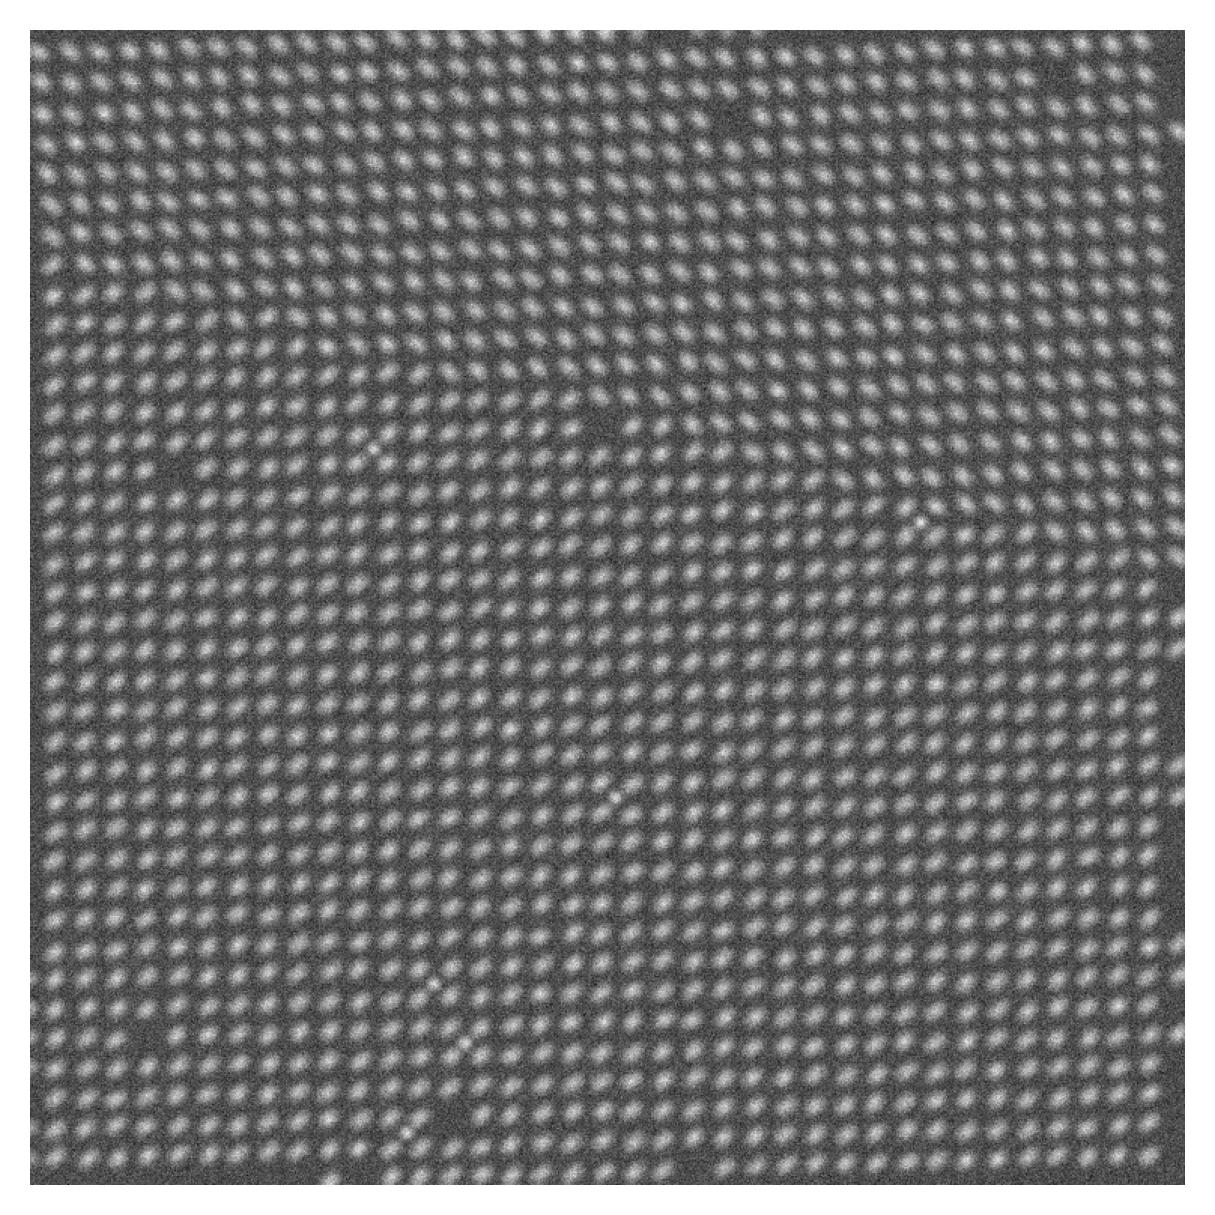
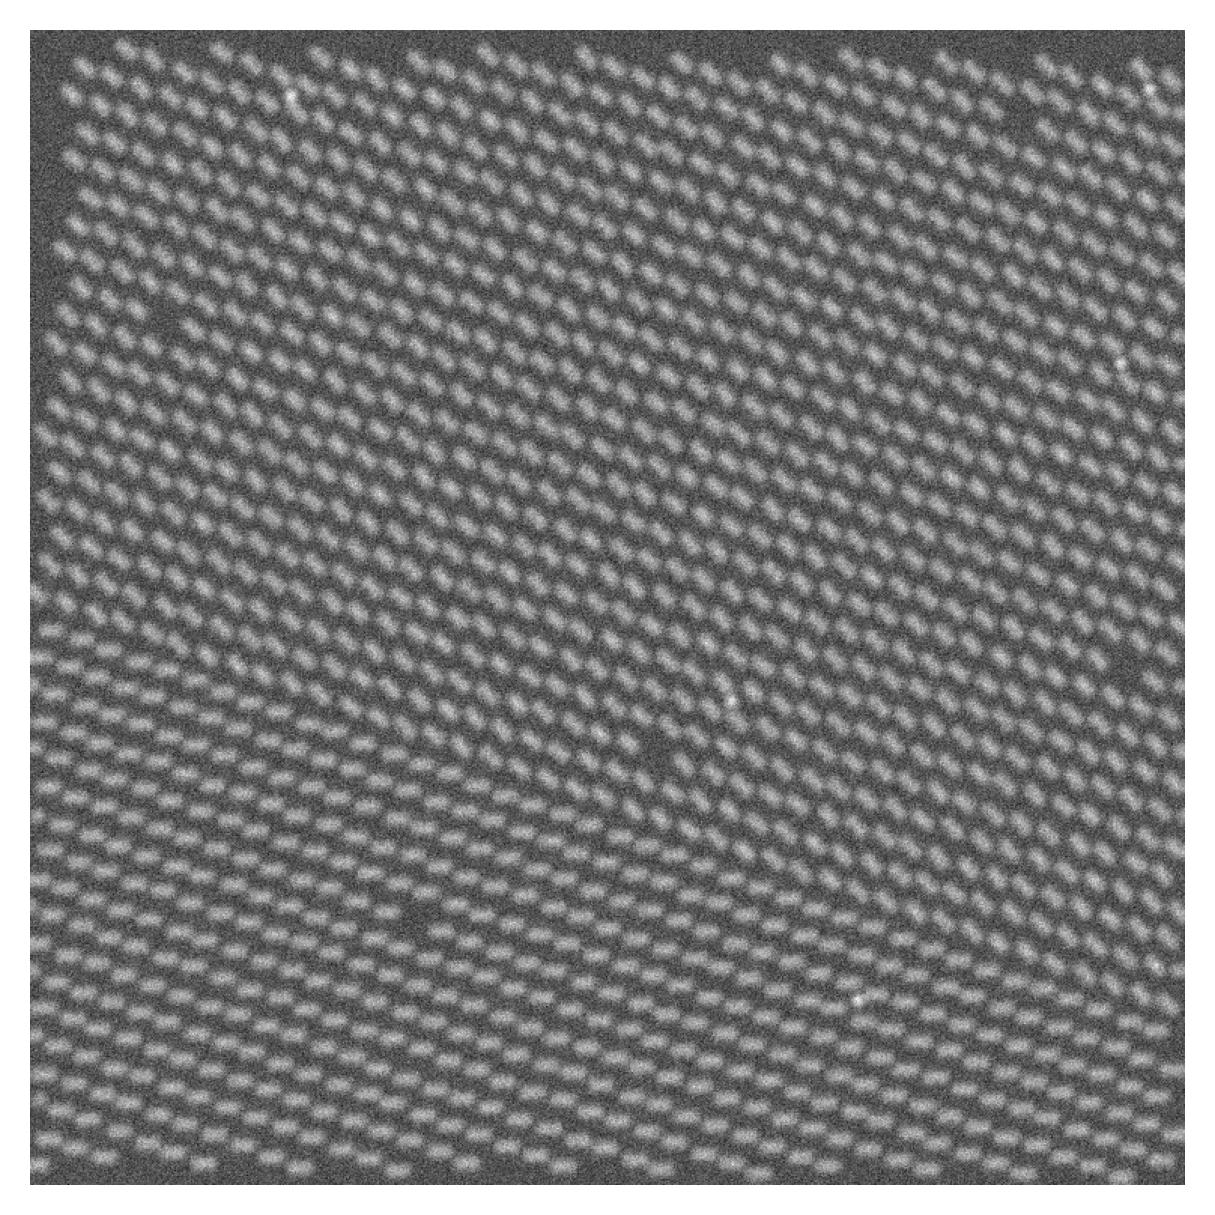
fake STEM images

diff --git a/generate fake STEM images.py b/generate fake STEM images.py
@@ -1,131 +1,131 @@
 import numpy as np
 import matplotlib.pyplot as plt
-from scipy.ndimage import gaussian_filter
-from skimage.draw import disk
+from scipy.ndimage import gaussian_filter  # for Gaussian blurring
+from skimage.draw import disk               # to draw circular atoms/interstitials
 import random
 
+# Function to rotate a point around a given line point by a specified angle
 def rotate_about_line(point, line_point, angle):
-    R = np.array([[np.cos(angle), -np.sin(angle)],
-                  [np.sin(angle),  np.cos(angle)]])
+    R = np.array([[np.cos(angle), -np.sin(angle)], [np.sin(angle),  np.cos(angle)]]) # 2D rotation matrix
     return line_point + R @ (point - line_point)
 
 def generate_stem_image_with_continuous_gb(
         
-    img_size=768,
+    img_size=768,              # Size of the square image (pixels)
     
-    line_spacing=20,
-    atom_spacing=20,
+    line_spacing=20,           # Spacing between lattice lines
+    atom_spacing=20,           # Spacing between atoms along lines
     
-    lattice_angle_deg=-2,
-    gb_misorientation_deg=2,
+    lattice_angle_deg=20,       # Overall rotation of lattice (degrees)
     
-    gb_angle=np.deg2rad(15),
-    gb_height=0.2, # 0.75 (0 to 1)
-    # gb_angle=np.deg2rad(random.uniform(10,20)),
-    # gb_height = random.uniform(0,1),
+    gb_misorientation_deg=5,   # Grain boundary misorientation (degrees) (don't have this too high, like 10 or less)
+    
+    gb_angle=np.deg2rad(20),   # For twinning: equal to lattice_angle_deg # Angle of grain boundary relative to horizontal
+    gb_height=0.001,             # Relative vertical position of GB (0=bottom, 1=top)
                 
-    atom_tilt_deg=-40,
-    dumbbell_separation=3.0, 
-    dumbbell_radius=4.5,
-    atom_intensity=2,
+    atom_tilt_deg=90,           # Tilt of dumbbell atoms (degrees)
+    dumbbell_separation=4.0,   # Distance between the two "lobes" of a dumbbell atom
+    dumbbell_radius=5.0,        # Radius of each dumbbell lobe
+    atom_intensity=2,           # Brightness of atoms
     
-    interstitial_r = 4,
-    interstitial_intensity=1, # relative to atom intensities
+    interstitial_r = 4,         # Radius of interstitial atoms
+    interstitial_intensity=1,   # Brightness relative to normal atoms
     
-    background=0.15,
-    noise_level=0.2,
-    gauss_sigma=2,
+    background=0.15,           # Base background intensity
+    noise_level=0.2,           # Gaussian noise added to final image
+    gauss_sigma=2.0,           # Gaussian blur applied to final image
     
-    n_vacancies=6,
-    n_interstitials=6,
+    n_vacancies=6,             # Number of missing atoms
+    n_interstitials=10,         # Number of extra interstitial atoms
     
-    seed=None
+    seed=None                  # Random seed for reproducibility
 ):
+    
+    # Set random seed if provided
     if seed is not None:
         np.random.seed(seed)
         random.seed(seed)
-
+        
+    # Create empty image with uniform background intensity
     img = np.full((img_size, img_size), background, dtype=float)
 
-    # # Grain boundary
-    # gb_angle = np.deg2rad(-15)
+    # Grain boundary parameters (slope m and intercept b)
     m = np.tan(gb_angle)
     b = img_size * gb_height
 
-    # Reference lattice
-    lattice_angle = np.deg2rad(lattice_angle_deg)
-    line_dir = np.array([np.cos(lattice_angle), np.sin(lattice_angle)])
-    perp_dir = np.array([-line_dir[1], line_dir[0]])
+    # Lattice directions
+    lattice_angle = np.deg2rad(lattice_angle_deg)           # Convert lattice rotation to radians
+    line_dir = np.array([np.cos(lattice_angle), np.sin(lattice_angle)])  # Direction along lines
+    perp_dir = np.array([-line_dir[1], line_dir[0]])       # Perpendicular direction
 
-    center = np.array([img_size // 2, img_size // 2])
-    n_lines = img_size // line_spacing
+    center = np.array([img_size // 2, img_size // 2])      # Image center
+    n_lines = img_size // line_spacing                      # Number of lattice lines to draw
 
-    atoms = []
+    atoms = []  # list to store atom positions and tilts
 
+    # Generate atom positions on lattice
     for i in range(-n_lines, n_lines):
         for j in range(-img_size // atom_spacing,
                        img_size // atom_spacing):
 
+            # Compute ideal atom position on lattice
             pos = center + j * atom_spacing * line_dir + i * line_spacing * perp_dir
             x, y = pos
             
-            # # make x and y positions slightly random
-            array_offset=10
+            # Small random perturbation to make lattice less perfect
+            array_offset=2 # amount to randomize by
             x = x + random.uniform(-array_offset, array_offset)
             y = y + random.uniform(-array_offset, array_offset)
             
+            # Skip atoms outside image bounds
             if not (0 <= x < img_size and 0 <= y < img_size):
                 continue
 
-            # Projection onto GB
+            # Project atom onto grain boundary line
             xg = (x + m * (y - b)) / (1 + m**2)
             yg = m * xg + b
             gb_point = np.array([xg, yg])
             
+            # Determine which side of GB the atom is on
             if y > m * x + b:
-                angle = np.deg2rad(gb_misorientation_deg)
-                tilt = np.deg2rad(atom_tilt_deg)
+                angle = np.deg2rad(gb_misorientation_deg)  # rotation for this grain
+                tilt = np.deg2rad(atom_tilt_deg)           # dumbbell tilt
             else:
-                angle = np.deg2rad(-gb_misorientation_deg)
-                tilt = np.deg2rad(-atom_tilt_deg)
+                angle = np.deg2rad(gb_misorientation_deg)
+                tilt = np.deg2rad(45-atom_tilt_deg) # this makes sure atoms tilt relative to lattice
 
+            # Rotate atom around its projected GB point
             new_pos = rotate_about_line(pos, gb_point, angle)
             
-            # # make x and y positions slightly random
+            # Add small random jitter
             array_offset=1
             new_pos[0] = new_pos[0] + random.uniform(-array_offset, array_offset)
             new_pos[1] = new_pos[1] + random.uniform(-array_offset, array_offset)
             
+            # Store atom position and tilt
             atoms.append((new_pos, tilt))
 
-    # Vacancies
+    # Randomly select indices for vacancies (missing atoms)
     vacancy_indices = random.sample(range(len(atoms)), n_vacancies)
     vacancy_set = set(vacancy_indices)
 
-    # ---- Draw dumbbell atoms ----
+    # Draw dumbbell atoms
     for idx, (pos, tilt) in enumerate(atoms):
         if idx in vacancy_set:
-            continue
+            continue  # skip vacancies
 
         cx, cy = pos
         dx = dumbbell_separation * np.cos(tilt)
         dy = dumbbell_separation * np.sin(tilt)
 
+        # Each dumbbell has two lobes, draw both
         for sx, sy in [(cx + dx, cy + dy), (cx - dx, cy - dy)]:
             x, y = int(sx), int(sy)
-            # print(x,y)
-            
-            # # make x and y positions slightly random
-            # array_offset=1
-            # x = x + random.uniform(-array_offset, array_offset)
-            # y = y + random.uniform(-array_offset, array_offset)
-            # print(x,y)
-            # print()
             if 0 <= x < img_size and 0 <= y < img_size:
                 rr, cc = disk((y, x), dumbbell_radius, shape=img.shape)
-                img[rr, cc] += atom_intensity * 0.5
+                img[rr, cc] += atom_intensity * 0.5  # add brightness to image
 
-    # Interstitials (still round)
+    # Interstitial atoms (extra atoms at midpoints)
     interstitial_sites = []
     for pos, _ in atoms:
         mid = pos + 0.5 * atom_spacing * line_dir + 0.5 * line_spacing * perp_dir
@@ -133,34 +133,40 @@ def generate_stem_image_with_continuous_gb(
         if 0 <= x < img_size and 0 <= y < img_size:
             interstitial_sites.append((x, y))
 
+    # Remove duplicates and randomly select a subset
     interstitial_sites = list(set(interstitial_sites))
     chosen = random.sample(interstitial_sites,
                            min(n_interstitials, len(interstitial_sites)))
 
+    # Draw interstitial atoms
     for x, y in chosen:
         rr, cc = disk((y, x), radius=interstitial_r, shape=img.shape)
         img[rr, cc] += atom_intensity * interstitial_intensity
 
-    # Blur + noise
+    # Apply Gaussian blur to simulate microscope resolution
     img = gaussian_filter(img, sigma=gauss_sigma)
+    # Add Gaussian noise
     img += np.random.normal(0, noise_level, img.shape)
 
-    img -= img.min()
-    img /= img.max()
+    # # Normalize image to [0,1] range
+    # # I don't know if this actually works
+    # img -= img.min()
+    # img /= img.max()
 
     return img
 
+# Path to save generated images
 savepath = r"C:\Users\proks\OneDrive\Documents\GitHub\2025_Hackathon\generated artificial data".replace("\\", "/")
 
-seed = 20
+seed = 3  # seed for reproducibility
 
 if __name__ == "__main__":
+    # Generate synthetic STEM image
     img = generate_stem_image_with_continuous_gb(seed=seed)
     
-    figure, axis = plt.subplots(figsize=(5,5), dpi=300)#, constrained_layout = True)#, layout="tight")#, gridspec_kw={'height_ratios': [1, 1, 1]}, sharex=True)
-    # axis.figure(figsize=(6, 6))
+    # Plot and save image
+    figure, axis = plt.subplots(figsize=(5,5), dpi=300)
     axis.imshow(img, cmap="gray")
     axis.axis("off")
-    # plt.title("Synthetic STEM with Centered Interstitials")
     figure.savefig(savepath+'/STEM_' + str(seed) + '.jpeg', bbox_inches="tight", dpi=300)
     plt.show()

diff --git a/rotate and reflect images.py b/rotate and reflect images.py
@@ -1,0 +1,48 @@
+# -*- coding: utf-8 -*-
+"""
+Created on Wed Dec 17 16:53:20 2025
+
+@author: proks
+"""
+
+from PIL import Image
+import os
+
+# Upload/load image
+image_path = r"C:\Users\proks\OneDrive\Documents\GitHub\2025_Hackathon\generated artificial data/".replace("\\", "/")
+image_name = "STEM_60.jpeg"
+# image_path = input("Enter the path to your image: ")
+image = Image.open(image_path + image_name)
+
+# Get the folder and base name for saving
+folder, filename = os.path.split(image_path)
+name = image_name[:-5]
+ext=image_name[-5:]
+
+# Define transformations ---
+rotations = [0, 90, 180, 270]  # degrees
+reflections = ['none', 'horizontal', 'vertical', 'both']
+
+# --- Step 3: Apply transformations and save ---
+for rot in rotations:
+    rotated_img = image.rotate(rot, expand=True)  # rotate image
+    
+    for refl in reflections:
+        # Apply reflections
+        if refl == 'horizontal':
+            transformed_img = rotated_img.transpose(Image.FLIP_LEFT_RIGHT)
+        elif refl == 'vertical':
+            transformed_img = rotated_img.transpose(Image.FLIP_TOP_BOTTOM)
+        elif refl == 'both':
+            transformed_img = rotated_img.transpose(Image.FLIP_LEFT_RIGHT).transpose(Image.FLIP_TOP_BOTTOM)
+        else:  # 'none'
+            transformed_img = rotated_img
+        
+        # print(f"{name}_rot{rot}_refl{refl}{ext}")
+        # print(f"{name}_rot{rot}_refl{refl}{ext}")
+        
+        # Save the transformed image
+        save_name = f"{name}_rot{rot}_refl{refl}{ext}"
+        save_path = os.path.join(folder, save_name)
+        transformed_img.save(save_path)
+        print(f"Saved: {save_path}")
